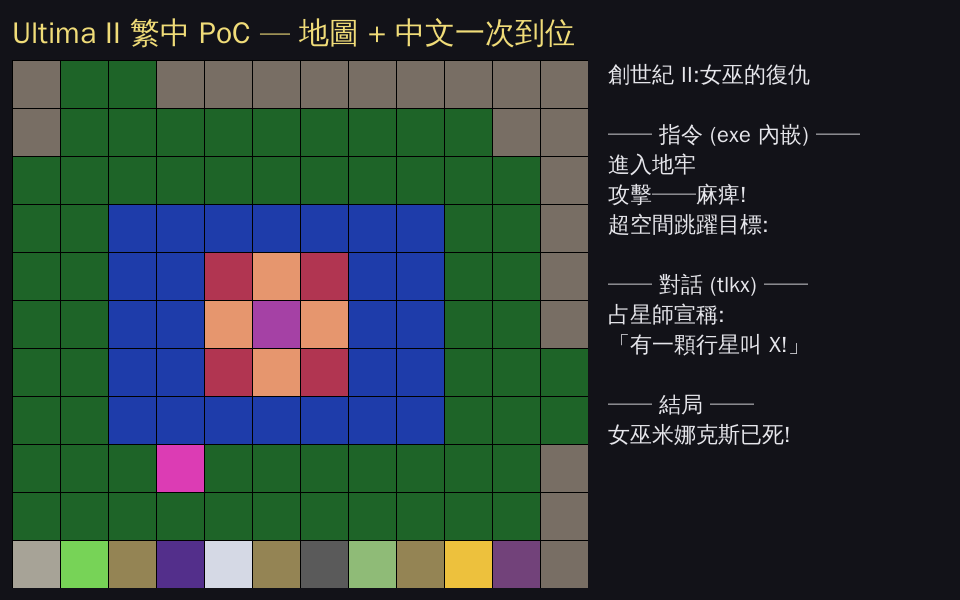
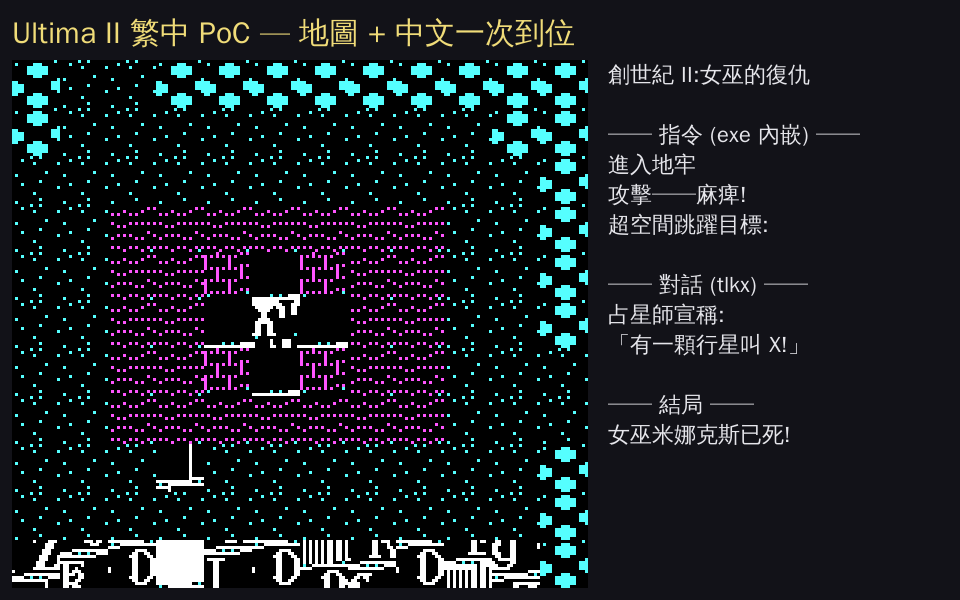
真實 tile 美術抽取 (CGA Linear 2bpp @0x7C43)
- 破解 U2 tile 格式:ultimaii.exe @0x7C43,64 tile,16×16,CGA 2bpp 4px/byte
- tools/extract_tiles.py 輸出 tileset strip PNG (original/red/blue 三調色盤)
- 引擎整合 u2_tileset (PNG strip 載入 + nearest 放大 blit);render 真 tile,色塊 fallback
- PoC 改用真 tile:青森林/洋紅護城河/人形 NPC/招牌字母,中文不變
- docs 更新 tile 格式 + 截圖;tileset.png (EA 版權) gitignore

diff --git a/tools/extract_tiles.py b/tools/extract_tiles.py
@@ -1,0 +1,65 @@
+#!/usr/bin/env python3
+"""從 DOS ultimaii.exe 抽取 64 個 tile 美術,輸出 tileset PNG。
+
+格式 (docs/DATA_FORMATS.md / ModdingWiki):
+  - tile 資料 @ offset 0x7C43,64 個 tile。
+  - 每 tile 16×16,**CGA Linear 2bpp**:4 px/byte,bit7-6=最左像素…bit1-0=最右。
+  - 64 bytes/tile。map 的 tile_id (byte÷4) 直接索引此表 0..63。
+  - tile ~0–31 為地形/物件,~32+ 為字符集 (招牌文字用)。
+
+CGA 調色盤 (對應 Alderson Win port 三組):
+  original = 黑/青/洋紅/白 (原版,magenta ocean)
+  red      = 黑/綠/紅/白
+  blue     = 黑/綠/藍/白
+
+用法:
+  python3 extract_tiles.py <ultimaii.exe> <out.png> [original|red|blue]
+  輸出:1024×16 橫向 strip (64 tile × 16px);engine 以 id*16 取 src x。
+
+注意:tile 美術屬 Origin/EA 版權,輸出 PNG **不散布**;請自備合法 Ultima II。
+"""
+import sys
+from PIL import Image
+
+TILE_BASE = 0x7C43
+N_TILES = 64
+
+PALETTES = {
+    "original": [(0, 0, 0), (85, 255, 255), (255, 85, 255), (255, 255, 255)],
+    "red":      [(0, 0, 0), (85, 255, 85), (255, 85, 85), (255, 255, 255)],
+    "blue":     [(0, 0, 0), (85, 255, 85), (85, 85, 255), (255, 255, 255)],
+}
+
+
+def decode_tile(exe, off):
+    px = [[0] * 16 for _ in range(16)]
+    for y in range(16):
+        for xb in range(4):
+            b = exe[off + y * 4 + xb]
+            for i, s in enumerate((6, 4, 2, 0)):
+                px[y][xb * 4 + i] = (b >> s) & 3
+    return px
+
+
+def main():
+    if len(sys.argv) < 3:
+        sys.exit(__doc__)
+    exe = open(sys.argv[1], "rb").read()
+    out = sys.argv[2]
+    pal = PALETTES[sys.argv[3] if len(sys.argv) > 3 else "original"]
+
+    img = Image.new("RGB", (N_TILES * 16, 16), (0, 0, 0))
+    for t in range(N_TILES):
+        off = TILE_BASE + t * 64
+        if off + 64 > len(exe):
+            break
+        px = decode_tile(exe, off)
+        for y in range(16):
+            for x in range(16):
+                img.putpixel((t * 16 + x, y), pal[px[y][x]])
+    img.save(out)
+    print(f"寫出 tileset → {out} ({N_TILES} tiles, palette={sys.argv[3] if len(sys.argv)>3 else 'original'})")
+
+
+if __name__ == "__main__":
+    main()

diff --git a/src/u2_render.c b/src/u2_render.c
@@ -1,4 +1,5 @@
 #include "u2_render.h"
+#include "u2_tileset.h"
 
 /* PoC placeholder 調色盤:低 id 給接近原版的地形色,其餘程序化分散色,
  * 目的是讓地圖「結構」可見以驗證資料讀取正確,非最終美術。
@@ -32,22 +33,21 @@ static void fill_rect(SDL_Surface *s, int x, int y, int w, int h,
     SDL_FillRect(s, &rc, SDL_MapRGB(s->format, r, g, b));
 }
 
-void u2_render_viewport(SDL_Surface *surf, const U2Map *m,
+void u2_render_viewport(SDL_Surface *surf, const U2Map *m, SDL_Surface *tiles,
                         int cam_x, int cam_y, int cols, int rows,
                         int tile_px, int ox, int oy)
 {
     for (int ty = 0; ty < rows; ty++) {
         for (int tx = 0; tx < cols; tx++) {
             unsigned char id = u2_map_tile(m, cam_x + tx, cam_y + ty);
-            Uint8 r, g, b;
-            u2_tile_color(id, &r, &g, &b);
-            fill_rect(surf, ox + tx * tile_px, oy + ty * tile_px,
-                      tile_px, tile_px, r, g, b);
-            /* 細格線,讓 tile 邊界可見 (PoC 視覺輔助) */
-            fill_rect(surf, ox + tx * tile_px, oy + ty * tile_px,
-                      tile_px, 1, 0, 0, 0);
-            fill_rect(surf, ox + tx * tile_px, oy + ty * tile_px,
-                      1, tile_px, 0, 0, 0);
+            int dx = ox + tx * tile_px, dy = oy + ty * tile_px;
+            if (tiles) {
+                u2_tileset_blit(surf, tiles, id, dx, dy, tile_px);
+            } else {
+                Uint8 r, g, b;
+                u2_tile_color(id, &r, &g, &b);
+                fill_rect(surf, dx, dy, tile_px, tile_px, r, g, b);
+            }
         }
     }
 }

diff --git a/src/poc_main.c b/src/poc_main.c
@@ -11,6 +11,7 @@
 #include <stdio.h>
 #include "u2_map.h"
 #include "u2_render.h"
+#include "u2_tileset.h"
 #include "u2_text.h"
 
 #define CANVAS_W 960
@@ -39,12 +40,13 @@ static const char *panel_lines[] = {
 int main(int argc, char **argv)
 {
     if (argc < 4) {
-        fprintf(stderr, "用法: %s <mapxNN> <font.ttf> <out.png>\n", argv[0]);
+        fprintf(stderr, "用法: %s <mapxNN> <font.ttf> <out.png> [tileset.png]\n", argv[0]);
         return 2;
     }
     const char *map_path = argv[1];
     const char *font_path = argv[2];
     const char *out_path = argv[3];
+    const char *tiles_path = (argc > 4) ? argv[4] : NULL;
 
     if (SDL_Init(0) != 0) {
         fprintf(stderr, "SDL_Init: %s\n", SDL_GetError());
@@ -79,11 +81,12 @@ int main(int argc, char **argv)
     u2_text_draw(canvas, &title, "Ultima II 繁中 PoC — 地圖 + 中文一次到位",
                  12, 14, 240, 220, 120);
 
-    /* (1) 繪圖換得掉:把地圖中段 viewport 畫到左側 */
+    /* (1) 繪圖換得掉:把地圖中段 viewport 畫到左側 (真 tileset 或色塊 fallback) */
+    SDL_Surface *tiles = tiles_path ? u2_tileset_load(tiles_path) : NULL;
     int cam_x = (U2_MAP_W - VIEW_COLS) / 2;
     int cam_y = (U2_MAP_H - VIEW_ROWS) / 2;
     int map_ox = 12, map_oy = 60;
-    u2_render_viewport(canvas, &map, cam_x, cam_y,
+    u2_render_viewport(canvas, &map, tiles, cam_x, cam_y,
                        VIEW_COLS, VIEW_ROWS, TILE_PX, map_ox, map_oy);
 
     /* map 來源標註 (證明讀的是真實檔) */

diff --git a/src/u2_render.h b/src/u2_render.h
@@ -9,16 +9,17 @@
 #include <SDL.h>
 #include "u2_map.h"
 
-/* 取得 tile_id 的 placeholder RGB 色。 */
+/* 取得 tile_id 的 placeholder RGB 色 (無 tileset 時 fallback)。 */
 void u2_tile_color(unsigned char tile_id, Uint8 *r, Uint8 *g, Uint8 *b);
 
 /* 把 map 的一個 viewport 畫到 surf。
+ *   tiles      :真實 tileset surface;NULL 則 fallback 到色塊
  *   cam_x/cam_y:viewport 左上角的 map 座標
  *   cols/rows  :viewport 顯示幾個 tile
  *   tile_px    :每 tile 放大後像素 (16×N)
  *   ox/oy      :畫到 surf 的左上角像素位移
  */
-void u2_render_viewport(SDL_Surface *surf, const U2Map *m,
+void u2_render_viewport(SDL_Surface *surf, const U2Map *m, SDL_Surface *tiles,
                         int cam_x, int cam_y, int cols, int rows,
                         int tile_px, int ox, int oy);
 

diff --git a/src/u2_tileset.c b/src/u2_tileset.c
@@ -1,0 +1,24 @@
+#include "u2_tileset.h"
+#include <SDL_image.h>
+
+SDL_Surface *u2_tileset_load(const char *png_path)
+{
+    SDL_Surface *raw = IMG_Load(png_path);
+    if (!raw)
+        return NULL;
+    /* 轉成已知格式方便 blit */
+    SDL_Surface *s = SDL_ConvertSurfaceFormat(raw, SDL_PIXELFORMAT_RGBA32, 0);
+    SDL_FreeSurface(raw);
+    return s;
+}
+
+void u2_tileset_blit(SDL_Surface *dst, SDL_Surface *tiles, int id,
+                     int dx, int dy, int size)
+{
+    if (!tiles)
+        return;
+    SDL_Rect src = { id * U2_TILE_SRC, 0, U2_TILE_SRC, U2_TILE_SRC };
+    SDL_Rect d = { dx, dy, size, size };
+    /* nearest 放大 (pixel art);SDL_BlitScaled 對 surface 為 nearest stretch */
+    SDL_BlitScaled(tiles, &src, dst, &d);
+}

diff --git a/src/u2_tileset.h b/src/u2_tileset.h
@@ -1,0 +1,20 @@
+/* u2_tileset — 真實 tile 美術 (從 ultimaii.exe 抽出的 PNG strip)
+ *
+ * strip 格式:1024×16,64 個 16×16 tile 橫排;tile id → src x = id×16。
+ * 由 tools/extract_tiles.py 產生 (EA 版權,不散布;玩家自備)。
+ */
+#ifndef U2_TILESET_H
+#define U2_TILESET_H
+
+#include <SDL.h>
+
+#define U2_TILE_SRC 16
+
+/* 載入 tileset PNG。失敗回傳 NULL (呼叫端可 fallback 到色塊)。 */
+SDL_Surface *u2_tileset_load(const char *png_path);
+
+/* 把 tile id 以 nearest 放大 blit 到 dst 的 (dx,dy),邊長 size。 */
+void u2_tileset_blit(SDL_Surface *dst, SDL_Surface *tiles, int id,
+                     int dx, int dy, int size);
+
+#endif

diff --git a/docs/POC.md b/docs/POC.md
@@ -16,16 +16,19 @@
 
 ![PoC](screenshots/poc_map_cjk.png)
 
-左側為 `mapx21`(城鎮)中段 viewport — 中央庭院建築、護城河(藍)、草地(綠)結構清晰可辨,證明 tile÷4 解析正確。右側為三來源中文文字(標題 / exe 內嵌 UI / tlkx 對話 / 結局),CJK 在內部 3× 解析度原生繪製、銳利。
+左側為 `mapx21`(城鎮)中段 viewport,使用**從 `ultimaii.exe` 抽出的真實 CGA tile**(青色森林、洋紅護城河、中央人形 NPC、底部招牌字母 tile),證明 tile÷4 解析 + CGA 解碼正確。右側為三來源中文文字(標題 / exe 內嵌 UI / tlkx 對話 / 結局),CJK 在內部 3× 解析度原生繪製、銳利。
+
+> tile 美術破解詳見 [DATA_FORMATS.md](DATA_FORMATS.md#tile-美術格式-已破解task-5):CGA Linear 2bpp @0x7C43,64 tile。
 
 ## 架構(deep modules / 垂直層)
 
 ```
 src/
-  u2_map.{h,c}     # data 層:mapxNN 解析,隱藏 ×4 quirk,介面只有 load / tile
-  u2_render.{h,c}  # render 層:tile id→色塊 (placeholder) + viewport 繪製
-  u2_text.{h,c}    # text 層:SDL2_ttf UTF-8 繪字 (ADR 0001 文字層原生繪製)
-  poc_main.c       # 接線:load → render → draw CJK → 存 PNG
+  u2_map.{h,c}      # data 層:mapxNN 解析,隱藏 ×4 quirk,介面只有 load / tile
+  u2_tileset.{h,c}  # render 層:真實 CGA tile (從 ultimaii.exe 抽出) blit
+  u2_render.{h,c}   # render 層:viewport 繪製 (真 tile,色塊 fallback)
+  u2_text.{h,c}     # text 層:SDL2_ttf UTF-8 繪字 (ADR 0001 文字層原生繪製)
+  poc_main.c        # 接線:load → render → draw CJK → 存 PNG
 ```
 
 ## 建置 / 重現
@@ -39,7 +42,8 @@ headless 離屏渲染存 PNG,不需顯示器。
 
 ## 已知簡化(後續任務)
 
-- **tile 美術為 placeholder 色塊** → task #5 抽真實 U2 tile(CGA 解碼)。
+- ~~tile 美術為 placeholder 色塊~~ ✅ **已完成**:真實 CGA tile 抽取(task #5,`tools/extract_tiles.py`)。
 - **CJK 用 SDL2_ttf** → production 可換 u6-cht 點陣字 atlas(BDF→自家格式)。
 - **viewport 靜態置中** → 引擎階段接上隊伍移動 / 鏡頭跟隨。
 - **換行未 CJK-aware** → 引擎階段補全形 2 倍寬換行(對照 oracle `RewrapString`)。
+- **NPC/怪物動態位置** → map 檔執行時改寫的層尚未解析(疊在地形 tile 上)。

diff --git a/docs/DATA_FORMATS.md b/docs/DATA_FORMATS.md
@@ -22,7 +22,15 @@
 - **tile id = byte 值 ÷ 4**(存檔時 ×4)。例:`0x10`(16)→ tile 4(山)。tile id 範圍 0–63。
 - 命名尾碼:**0=行星總圖,1/2/3=城鎮,4/5=地牢**。
 - ⚠ 地圖**不存**「哪個 NPC/招牌在哪」;遊戲執行時**動態改寫 map 檔**存 NPC/怪物即時位置(= readme 說「進城就存檔」的原因)。
-- tile 圖塊嵌在 `ultimaii.exe`(DOS @offset 31811);Win 版用自家 tileset + `Font.txt`。
+- tile 圖塊嵌在 `ultimaii.exe`(DOS **@offset 0x7C43 = 31811**);Win 版用自家 tileset + `Font.txt`。
+
+## tile 美術格式 ✅(已破解,task #5)
+- 位置:`ultimaii.exe` **@0x7C43**,**64 個 tile**,每 tile **16×16**。
+- 編碼:**CGA Linear 2bpp** —— 4 px/byte,bit7-6=最左像素、bit5-4 次之…bit1-0=最右。**64 byte/tile**。
+- map 的 `tile_id`(byte÷4)直接索引此表 0..63。
+- 配置:tile ~0–31 為地形/物件(0=洋紅海洋、青色森林、城堡、人形 NPC…),**~32+ 為字符集**(A–Z 等,地圖招牌文字用)。
+- CGA 調色盤三組(對應 Alderson Win port):`original` 黑/青/洋紅/白、`red` 黑/綠/紅/白、`blue` 黑/綠/藍/白。
+- 抽取工具:`tools/extract_tiles.py`(輸出 1024×16 tileset strip PNG,**EA 版權不散布**)。
 
 ## tlkxNN — 對話 ✅(中文化主目標)
 - **編碼:high-bit-set ASCII**(每 byte `OR 0x80`),清掉 bit7 還原;`\x00` 分段,`\r`(0x0d)換行。

diff --git a/README.md b/README.md
@@ -136,8 +136,9 @@ python3 tools/decode_talk.py path/to/ultima2/ > translations/talk_dialogue.tsv
 - [x] 逆向取得 + 格式文件化(Phase A–E)
 - [x] 渲染/CJK 解析度決策(ADR 0001)
 - [x] **垂直切片 PoC — 三假設一次驗證**([docs/POC.md](docs/POC.md))✅
+- [x] **真實 tile 美術抽取(CGA Linear 2bpp @0x7C43)**✅
 - [ ] SDL2 引擎骨架(deep modules:world / town / dungeon / space / combat / party / text)
-- [ ] 真實 tile 美術抽取(CGA 解碼,取代 placeholder 色塊)
+- [ ] NPC/怪物動態層解析(疊在地形上)
 - [ ] CJK 文字層升級(複用 u6-cht 點陣字 pipeline)
 - [ ] 翻譯 392 條 UI + 108 行對話
 - [ ] 行為對照 oracle(亂數/機率/戰鬥公式)
